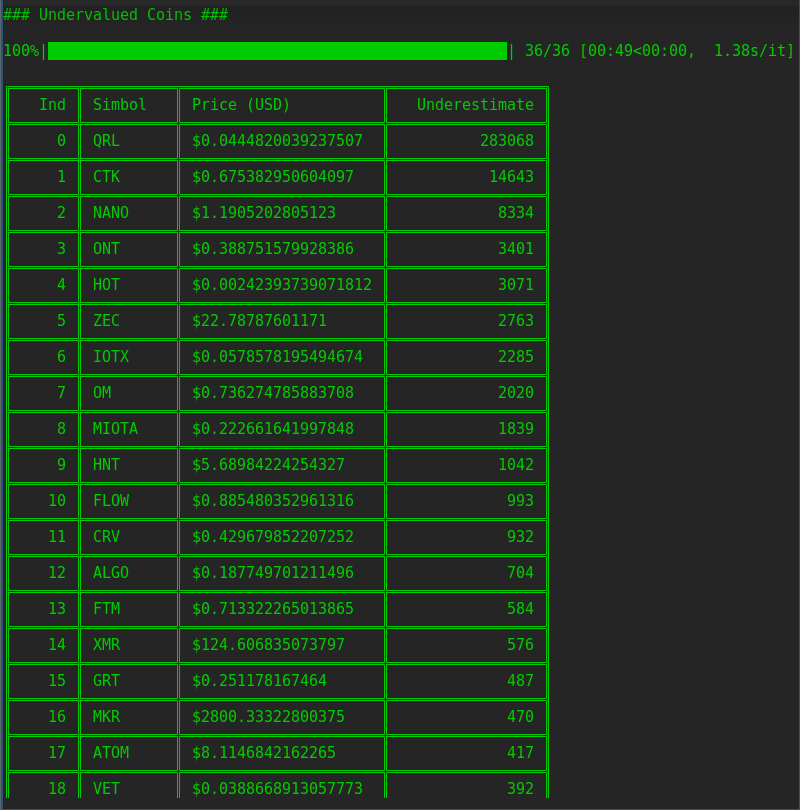
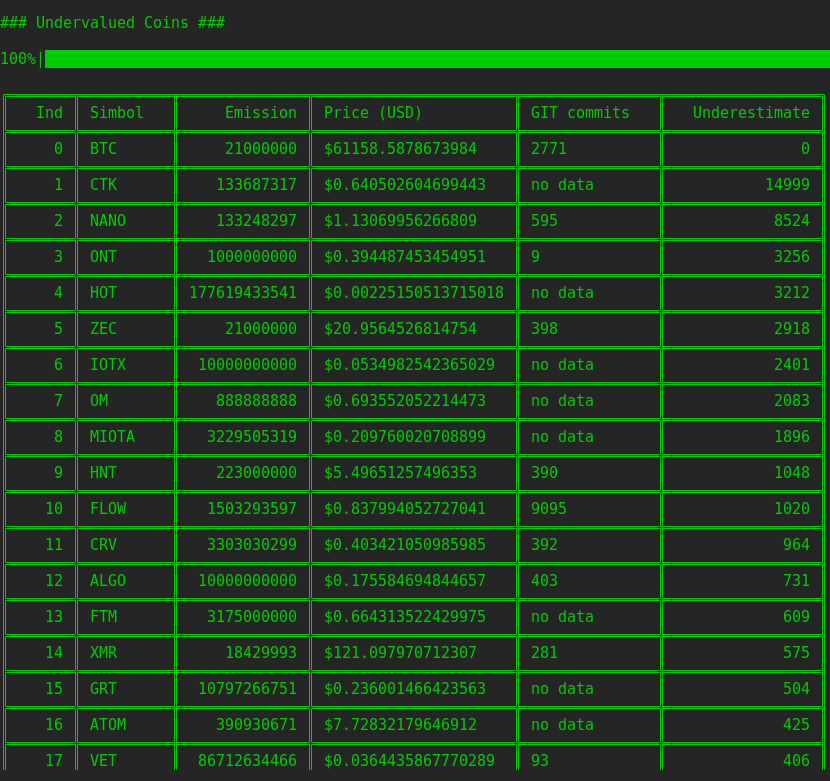
add git analysis

Changed region(s): [[0.0, 0.0, 1.0, 1.0]]

diff --git a/git_helper.py b/git_helper.py
@@ -1,0 +1,150 @@
+
+import os
+import requests
+
+from dotenv import load_dotenv, dotenv_values 
+
+load_dotenv()
+
+GITHUB_TOKEN = os.getenv("GITHUB_TOKEN")
+
+Data = {
+    'BTC': {
+        'owner': 'bitcoin',
+        'repo': 'bitcoin'
+    },
+    'TON': {
+        'owner': 'ton-blockchain',
+        'repo': 'ton'
+    },
+    'MIOTA': {
+        'owner': 'iotaledger',
+        'repo': 'iota-core'
+    },
+    'SOL': {
+        'owner': 'solana-labs',
+        'repo': 'solana'
+    },
+    'XRP': {
+        'owner': 'XRPLF',
+        'repo': 'rippled'
+    },
+    'AVAX': {
+        'owner': 'ava-labs',
+        'repo': 'avalanchego'
+    },
+    'TRX': {
+        'owner': 'tronprotocol',
+        'repo': 'java-tron'
+    },
+    'DOT': {
+        'owner': 'paritytech',
+        'repo': 'polkadot-sdk'
+    },
+    'LINK': {
+        'owner': 'smartcontractkit',
+        'repo': 'chainlink'
+    },
+    'HBAR': {
+        'owner': 'hashgraph',
+        'repo': 'hedera-services'
+    },
+    'APT': {
+        'owner': 'aptos-labs',
+        'repo': 'aptos-core'
+    },
+    'FIL': {
+        'owner': 'filecoin-project',
+        'repo': 'lotus'
+    },
+    'XLM': {
+        'owner': 'stellar',
+        'repo': 'stellar-core'
+    },
+    'ATOM': {
+        'owner': 'cosmos',
+        'repo': 'cosmos'
+    },
+    'VET': {
+        'owner': 'vechain',
+        'repo': 'thor'
+    },
+    'OP': {
+        'owner': 'ethereum-optimism',
+        'repo': 'optimism'
+    },
+    'GRT': {
+        'owner': 'graphprotocol',
+        'repo': 'graph-node'
+    },
+    'FTM': {
+        'owner': 'Fantom-foundation',
+        'repo': 'go-opera'
+    },
+    'ALGO': {
+        'owner': 'algorand',
+        'repo': 'go-algorand'
+    },
+    'FLOW': {
+        'owner': 'onflow',
+        'repo': 'flow-go'
+    },
+    'HNT': {
+        'owner': 'helium',
+        'repo': 'oracles'
+    },
+    'IOTX': {
+        'owner': 'iotexproject',
+        'repo': 'iotex-core'
+    },
+    'HOT': {
+        'owner': 'holochain',
+        'repo': 'holochain-rust'
+    },
+    'ZEC': {
+        'owner': 'zcash',
+        'repo': 'zcash'
+    },
+    'NANO': {
+        'owner': 'nanocurrency',
+        'repo': 'nano-node'
+    },
+    'ONT': {
+        'owner': 'ontio',
+        'repo': 'ontology'
+    },
+    'NEAR': {
+        'owner': 'near',
+        'repo': 'nearcore'
+    },
+    'MATIC': {
+        'owner': 'maticnetwork',
+        'repo': 'bor'
+    },
+    'CRV': {
+        'owner': 'curvefi',
+        'repo': 'curve-js'
+    },
+    'XMR': {
+        'owner': 'monero-project',
+        'repo': 'monero'
+    }
+}
+# Get commits count form base repo
+def getCountCommits(curr):
+    count_commits = 0
+    curr_repo = Data.get(curr)
+    if curr_repo != None:
+        url = f"https://api.github.com/repos/{curr_repo['owner']}/{curr_repo['repo']}/stats/commit_activity"
+
+        params = {
+            "state": "open",
+        }
+
+        headers = {'Authorization': f'token {GITHUB_TOKEN}'}
+        req = requests.get(url, headers=headers, params=params)
+        data = req.json()
+        for v in data:
+            count_commits += v['total']
+    
+    return count_commits

diff --git a/main.py b/main.py
@@ -1,10 +1,11 @@
-
-import urllib.request, json
 import random
 import time
 import tqdm
 import tabulate
 import os
+import requests
+import git_helper
+
 from dotenv import load_dotenv, dotenv_values 
 
 load_dotenv()
@@ -41,7 +42,6 @@ Currency = {
     'XLM': 50001806812,
     'ATOM': 390930671,
     'VET': 86712634466,
-    'MKR': 1005577,
     'OP': 4294967296,
     'GRT': 10797266751,
     'FTM': 3175000000,
@@ -56,7 +56,6 @@ Currency = {
     'ONT': 1000000000,
     'CTK': 133687317,
     'NEAR': 1188295576,
-    'QRL': 105000000,
     'MATIC': 10000000000,
     'CRV': 3303030299,
     'XMR': 18429993
@@ -67,10 +66,9 @@ Get coin price
  """
 def getPrice(curr):
     url = f"https://data-api.cryptocompare.com/asset/v1/data/by/symbol?asset_symbol={curr}&api_key={API_TOKEN}"
-
-    with urllib.request.urlopen(url) as url:
-        data = json.load(url)
-        return data['Data']['PRICE_USD']
+    req = requests.get(url)
+    data = req.json()
+    return data['Data']['PRICE_USD']
 
 
 print('\n### ' + APP_TITLE.title() + ' ###\n')
@@ -89,12 +87,20 @@ for curr, emission in tqdm.tqdm(Currency.items()):
     
     underestimate = (BTC_price/(emission/BTC_EMISSION))/currency_price
     #print(curr, currency_price, underestimate)
-    Underestimate[underestimate] = [curr, currency_price]
+    count_commits = git_helper.getCountCommits(curr)
+    Underestimate[underestimate] = [curr, currency_price, count_commits, emission]
     
 sorted_underestimate = dict(sorted(Underestimate.items(), reverse=True))
 
-underestimate_final = [];
-for v, data in sorted_underestimate.items():
-    underestimate_final.append([data[0], '$' + str(data[1]), round(v)])
+BTC_commits = git_helper.getCountCommits(BTC_ID)
 
-print('\n' + tabulate.tabulate(underestimate_final, headers=["Ind", "Simbol", "Price (USD)", "Underestimate"], showindex="always", tablefmt="double_grid"))
+underestimate_final = [[
+    BTC_ID, BTC_EMISSION, '$' + str(BTC_price), BTC_commits, 0
+]];
+
+for v, data in sorted_underestimate.items():
+    commits = data[2] if data[2] > 0 else 'no data'
+    underestimate_final.append([data[0], data[3], '$' + str(data[1]), commits, round(v)])
+
+print('\n' + tabulate.tabulate(underestimate_final, headers=["Ind", "Simbol", "Emission", "Price (USD)", "GIT commits", "Underestimate"], showindex="always", tablefmt="double_grid"))
+

diff --git a/README.md b/README.md
@@ -3,16 +3,18 @@
 This service was created to analyze the undervaluation of cryptocurrency relative to the BTC price and issue. The maximum coin supply is included in the calculation, if one is preset. If there is no maximum emission, then total supply is used.
 
 ## How to use
-To use the service, you need to create a **.env** file at root directory. It must contain the api token (https://min-api.cryptocompare.com/)
+To use the service, you need to create a **.env** file at root directory. It must contain the api token (https://min-api.cryptocompare.com/). And github tokens.
 ```bash
 API_TOKEN = "your_token"
+GITHUB_TOKEN = "your_token"
 ```
 And run
 
 ```bash
 $ python ./main.py
 ```
-
+Coin statistics will be displayed. Based on these statistics, we can conclude that the price of the coin is objective.
+GIT commits - count of commits in the last year.
 ![scrensort](scr.png)
 
 
@@ -22,9 +24,6 @@ The calculation algorithm is very simple, and this is my personal opinion.
 (BTC_PRICE / (CURRENCY_SUPPLY / BTC_SUPPLY)) / CURRENCY_PRICE
 ```
 Thus, we first calculate how much BTC would be worth if its emission were equal to the emission of the selected coin. Next, we divide this amount by the current price of the coin and get how many times the coin is cheaper than BTC. Personally, it helps me understand how much the coin is relatively cheaper than BTC.
-
-## TODO
-I plan to add an analysis of the repositories of those coins that participate in the analysis. This will help you understand what growth potential the selected project has.
 
 ## Denial of responsibility
 This service does not constitute financial advice or investment insight. If you use it, YOU and YOU ONLY are responsible for it.
